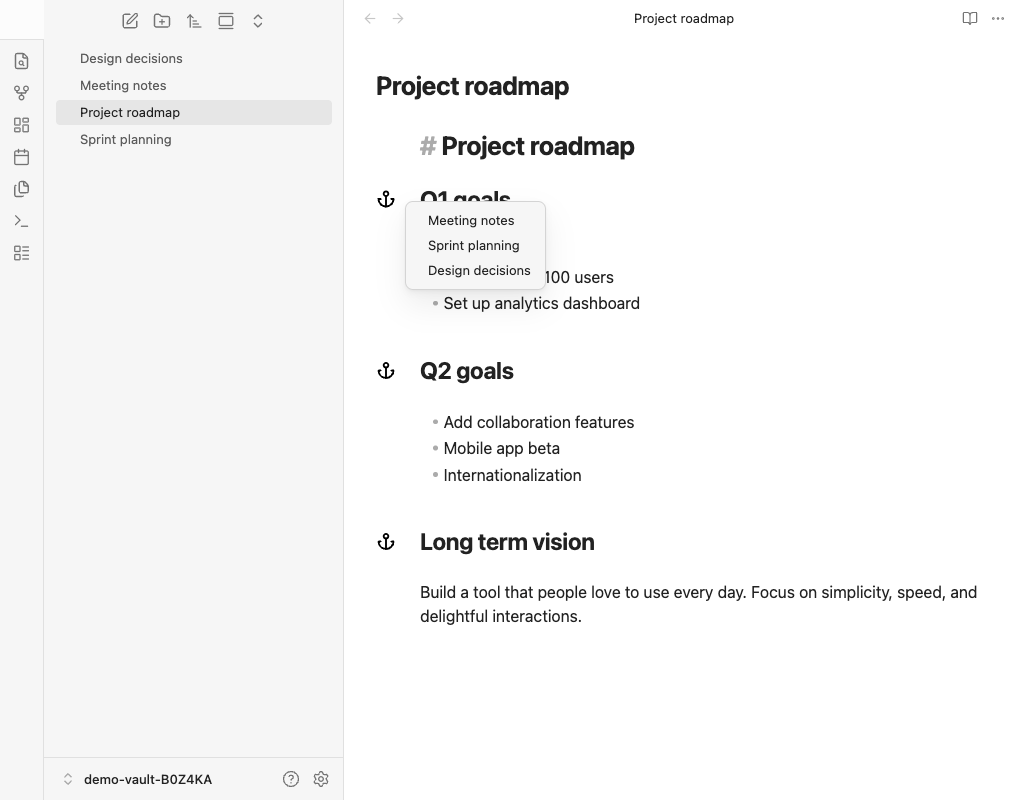
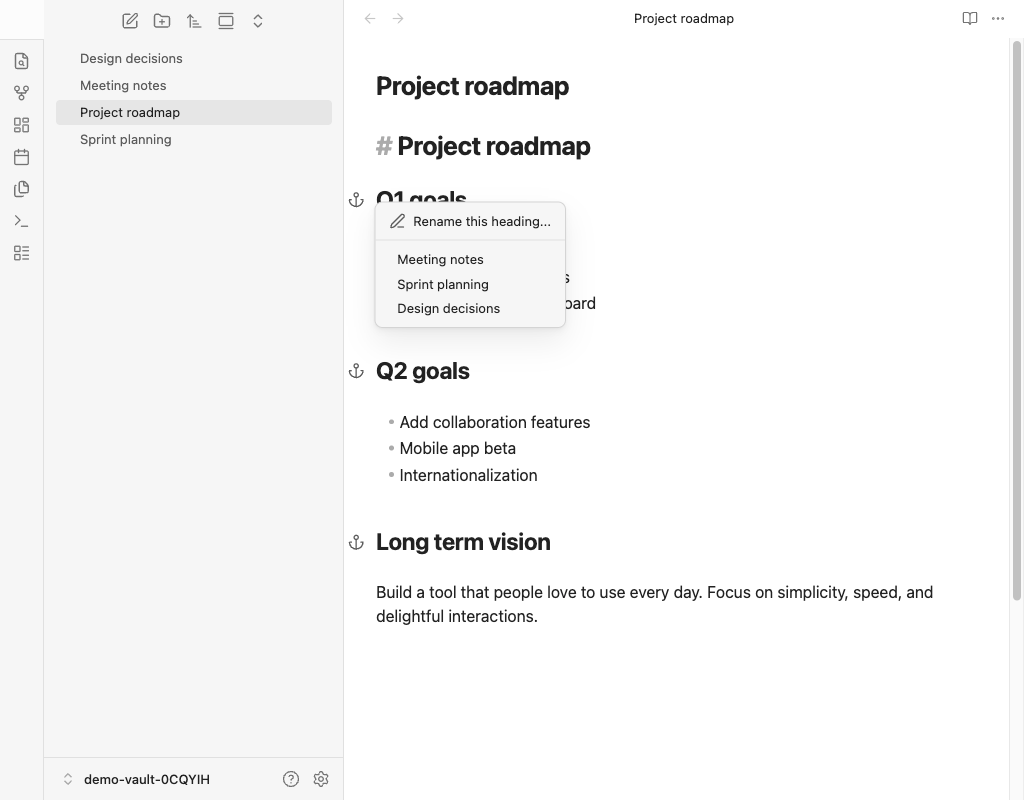
add rename cmd

diff --git a/src/editor-extension.ts b/src/editor-extension.ts
@@ -63,19 +63,23 @@ class AnchorWidget extends WidgetType {
 			evt.preventDefault();
 			evt.stopPropagation();
 			const menu = new Menu();
-			menu.addItem((item) => {
-				item.setTitle("Rename this heading...");
-				item.setIcon("pencil");
-				item.onClick(() => {
-					const editor = this.app.workspace.activeEditor?.editor;
-					if (editor) {
-						editor.setCursor({ line: this.headingLine, ch: 0 });
-						// eslint-disable-next-line @typescript-eslint/no-unsafe-call,@typescript-eslint/no-unsafe-member-access,@typescript-eslint/no-explicit-any -- executeCommandById is not in Obsidian's public types
-						(this.app as any).commands.executeCommandById("editor:rename-heading");
-					}
+			// eslint-disable-next-line @typescript-eslint/no-unsafe-call,@typescript-eslint/no-unsafe-member-access,@typescript-eslint/no-explicit-any -- commands API is not in Obsidian's public types
+			const renameCmd = (this.app as any).commands?.findCommand("editor:rename-heading") as { name?: string } | undefined;
+			if (renameCmd) {
+				menu.addItem((item) => {
+					item.setTitle(renameCmd.name ?? "Rename this heading...");
+					item.setIcon("pencil");
+					item.onClick(() => {
+						const editor = this.app.workspace.activeEditor?.editor;
+						if (editor) {
+							editor.setCursor({ line: this.headingLine, ch: 0 });
+							// eslint-disable-next-line @typescript-eslint/no-unsafe-call,@typescript-eslint/no-unsafe-member-access,@typescript-eslint/no-explicit-any -- executeCommandById is not in Obsidian's public types
+							(this.app as any).commands.executeCommandById("editor:rename-heading");
+						}
+					});
 				});
-			});
-			menu.addSeparator();
+				menu.addSeparator();
+			}
 			for (const group of groupSourcesByFile(this.sources)) {
 				menu.addItem((item) => {
 					item.setTitle(group.title);

diff --git a/README.ru.md b/README.ru.md
@@ -9,6 +9,7 @@ _Read in English: [README.md](README.md)._
 - **Обратные ссылки по заголовкам по всему хранилищу**: обход markdown-файлов в поиске wiki-ссылок и вставок с фрагментом `#`, указывающим на заголовок. Строится карта «какие заголовки куда ссылаются».
 - **Иконки-якоря в канале**: в режимах **Live Preview** и **Исходный код** у заголовков, на которые есть ссылки, слева отображается небольшой якорь (рядом с номерами строк). У заголовков без входящих ссылок по заголовку иконки нет.
 - **Быстрая навигация**: клик по якорю открывает контекстное меню со списком исходных заметок. Выбор пункта переводит к точной строке ссылки, а для заметок с несколькими вхождениями открывается второй список вида `строка: цитата`.
+- **Переименование заголовка**: в контекстном меню есть действие **Переименовать этот заголовок…** (вызывает штатную команду Obsidian), которое переименовывает заголовок и обновляет все ссылки на него.
 - **Ссылки внутри одного файла**: поддерживаются ссылки вида `[[#Заголовок]]` / `[[#Какой-то заголовок]]`, когда цель — заголовок в **той же** заметке.
 - **Учитываются вставки**: ссылки из вставок `![[Заметка#Заголовок]]` учитываются так же, как обычные `[[...]]`.
 - **Актуальность**: при изменении метаданных (правки, новые файлы, разрешённые ссылки) карта обратных ссылок пересобирается с короткой задержкой, канал остаётся согласованным с хранилищем.

diff --git a/README.md b/README.md
@@ -9,6 +9,7 @@ An Obsidian plugin that shows an **anchor icon** in the editor gutter next to he
 - **Vault-wide header backlinks**: Scans markdown files for wiki-style links and embeds that include a `#` fragment pointing at a heading. Builds a map of “which headings are linked from where.”
 - **Gutter anchor icons**: In **Live Preview** and **Source** mode, referenced headings get a small anchor in the left gutter (next to the line number column). Headings with no incoming header links show no icon.
 - **Quick navigation**: Click an anchor to open a context menu listing every source note. Choosing an entry jumps to the exact link line, and notes with multiple matches open a second chooser with `line: quote` entries.
+- **Rename heading**: The context menu includes a **Rename this heading…** action (uses the built-in Obsidian command) that renames the heading and updates all links pointing to it.
 - **Same-file links**: Supports `[[#Heading]]` / `[[#Some heading]]` style links where the target is a heading in the **same** note.
 - **Embeds included**: References from `![[Note#Heading]]` style embeds are counted the same as ordinary `[[...]]` links.
 - **Stays up to date**: When metadata changes (edits, new files, resolved links), the backlink map is rebuilt on a short debounce so the gutter stays in sync with the vault.
